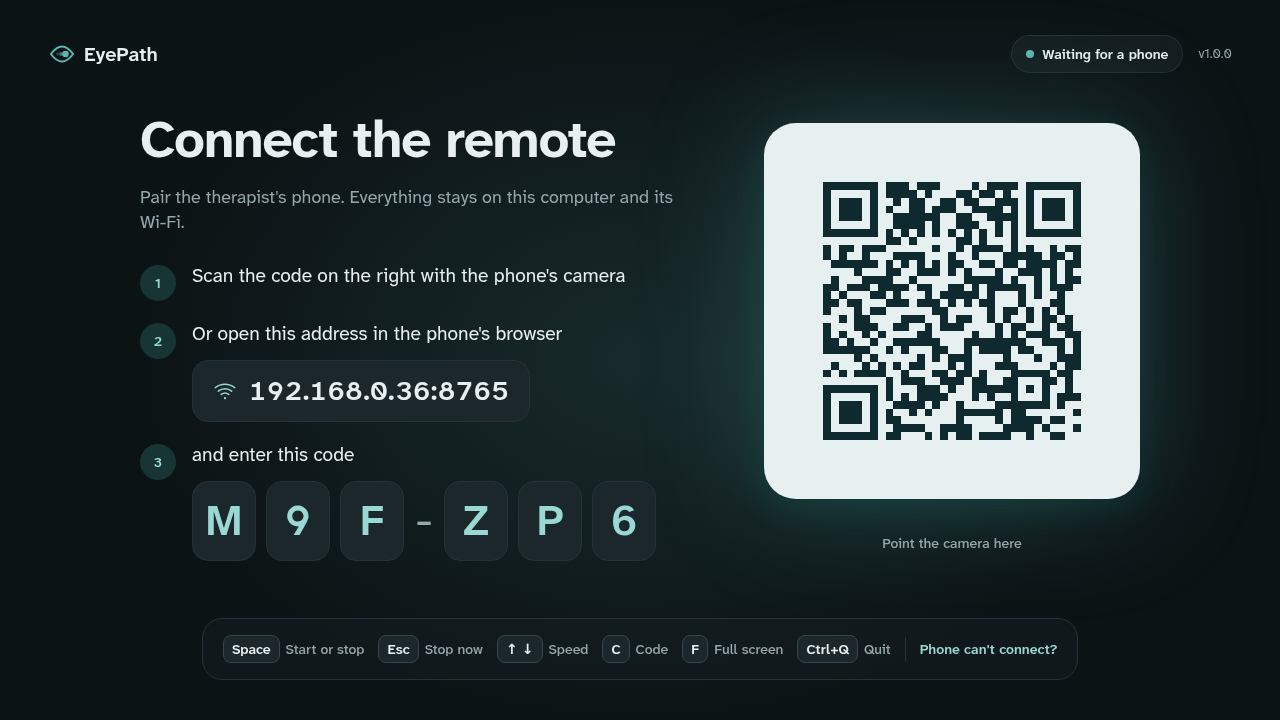
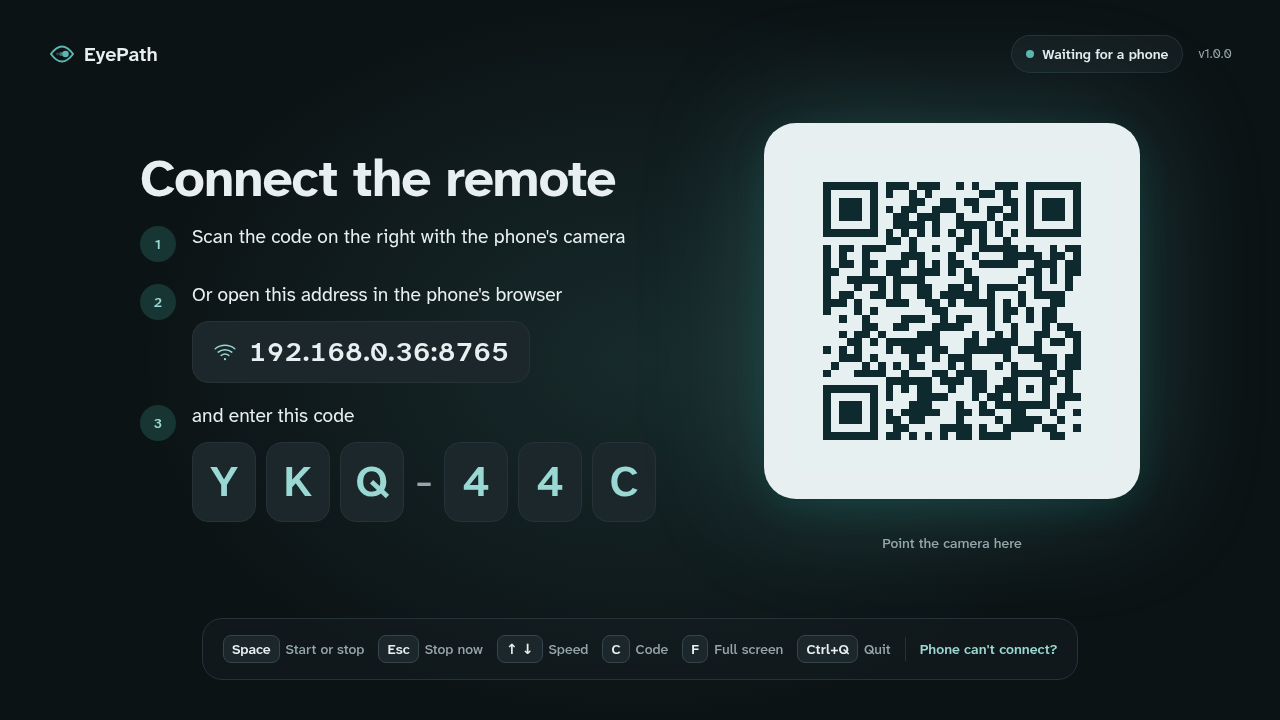
minor edits

diff --git a/tools/media.js b/tools/media.js
@@ -4,13 +4,14 @@
 // for reduced motion, and the social preview card. Run it through Electron, which
 // drives the app's own pages in hidden windows:
 //
-//   env -u ELECTRON_RUN_AS_NODE ./node_modules/electron/dist/electron tools/media.js
+//   env -u ELECTRON_RUN_AS_NODE ./node_modules/electron/dist/electron --no-sandbox tools/media.js
 //
 // (VS Code's terminal sets ELECTRON_RUN_AS_NODE, which makes Electron act as plain
-// Node, hence the env -u.) Needs ffmpeg on the PATH for the animation. Starts the app's
-// server on port 8765 (or the next free one) with throwaway settings in a temp folder,
-// so your own presets and settings are untouched. The QR code and pairing code are
-// whatever that server makes up.
+// Node, hence the env -u. --no-sandbox is for a development checkout, where Electron's
+// sandbox helper isn't set up; it has to be on the command line.) Needs ffmpeg on the
+// PATH for the animation. Starts the app's server on port 8765 (or the next free one)
+// with throwaway settings in a temp folder, so your own presets and settings are
+// untouched. The QR code and pairing code are whatever that server makes up.
 "use strict";
 
 const path = require("path");
@@ -19,7 +20,6 @@ const os = require("os");
 const { spawnSync } = require("child_process");
 const { app, BrowserWindow, nativeTheme } = require("electron");
 
-app.commandLine.appendSwitch("no-sandbox");
 app.disableHardwareAcceleration();
 app.on("window-all-closed", () => {});
 
@@ -130,7 +130,9 @@ app.whenReady().then(async () => {
     console.error(err);
     process.exitCode = 1;
   }
-  if (server) await server.close();
+  // Closing the server waits for its connections to end; don't let that keep the tool alive.
+  if (server) await Promise.race([server.close(), sleep(3000)]);
   if (!process.exitCode) fs.rmSync(WORK, { recursive: true, force: true });
   app.quit();
+  setTimeout(() => app.exit(process.exitCode || 0), 2000);
 });

diff --git a/static/client.html b/static/client.html
@@ -25,7 +25,6 @@
   <div class="code-body">
     <div class="code-steps">
       <h1 class="client-hero">Connect the remote</h1>
-      <p class="client-lead">Pair the therapist's phone. Everything stays on this computer and its Wi-Fi.</p>
       <div class="step"><span class="step-num">1</span><div>Scan the code on the right with the phone's camera</div></div>
       <div class="step"><span class="step-num">2</span><div>Or open this address in the phone's browser
         <span class="address"><svg class="ico" aria-hidden="true"><use href="/static/icons/sprite.svg#wifi-high--regular"/></svg><span id="addr">…</span></span></div></div>

diff --git a/static/therapist.html b/static/therapist.html
@@ -454,7 +454,7 @@
   <div class="closed-body">
     <span class="closed-tile"><svg class="ico" aria-hidden="true"><use href="/static/icons/sprite.svg#power--regular"/></svg></span>
     <h1>EyePath is closed</h1>
-    <p>It quit on the computer, so this session has ended. You can close this tab.</p>
+    <p>This session has ended. You can close this tab.</p>
     <span id="closedSets" class="badge" hidden></span>
   </div>
   <p class="closed-foot">To start again, open EyePath on the computer and scan the new code.</p>

diff --git a/static/therapist.js b/static/therapist.js
@@ -731,7 +731,7 @@ $("#soundCheckBtn").addEventListener("click", () => {
 });
 $("#quitBtn").addEventListener("click", async () => {
   $("#roomSheet").close();             // the question stands on its own
-  const ok = await askConfirm("Quit EyePath on the computer?", "Quit", "quit",
+  const ok = await askConfirm("Quit EyePath?", "Quit", "quit",
     { icon: "sign-out--fill" });
   if (!ok) return;
   if (!(await sendCommand({ type: "quit" }).catch(() => false))) return;
